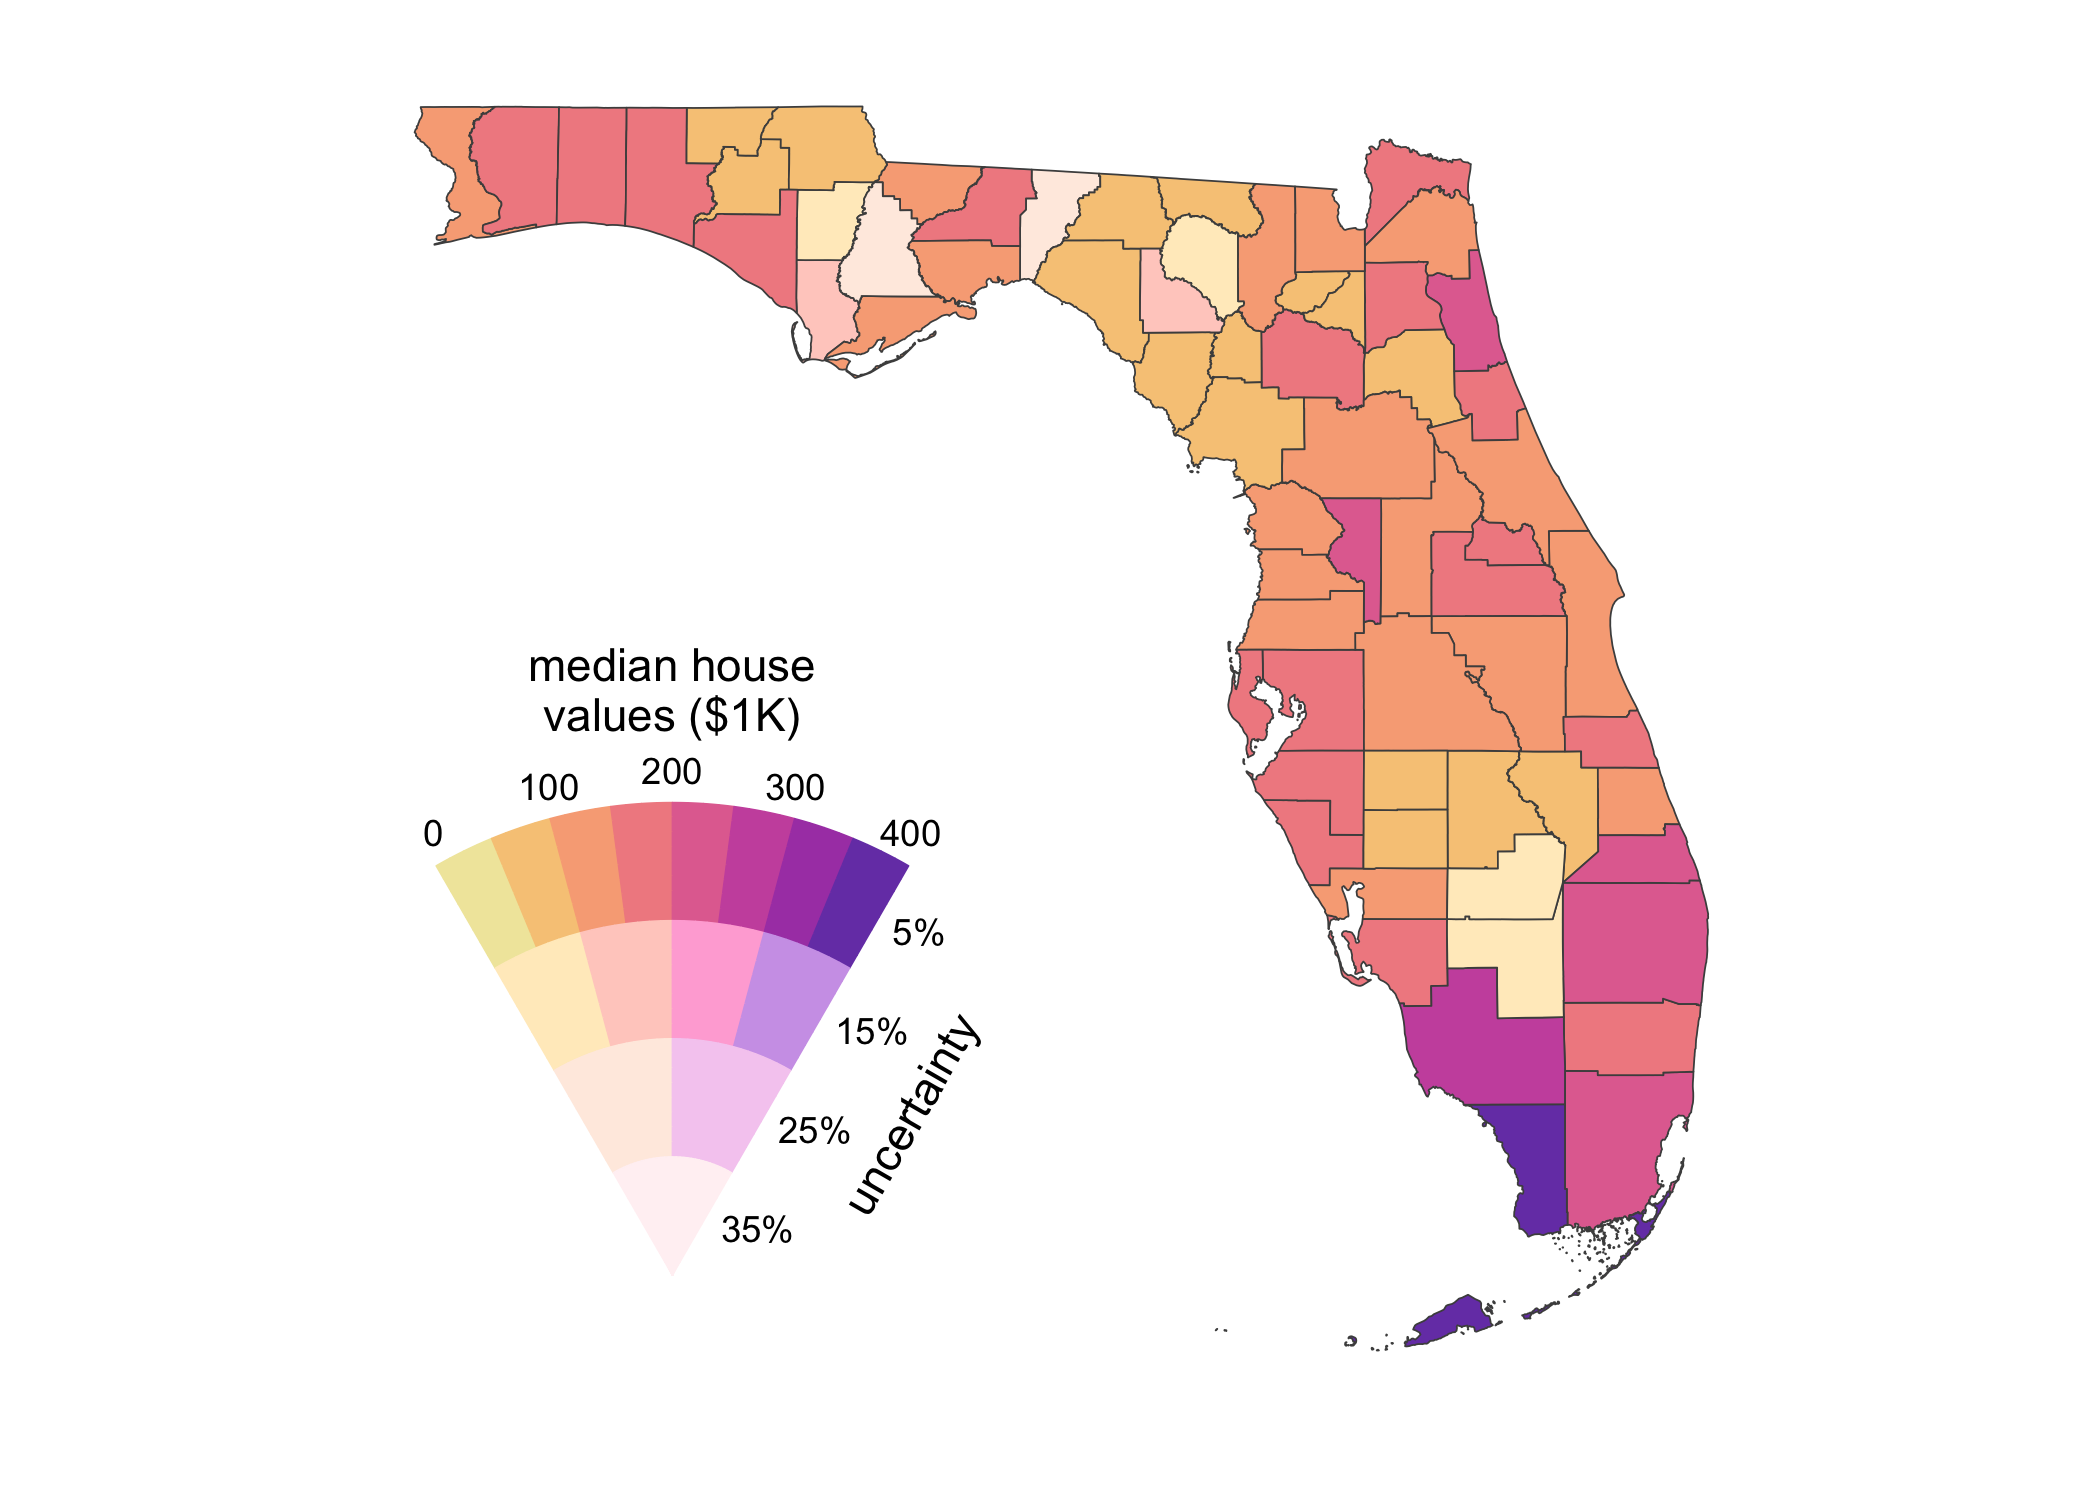
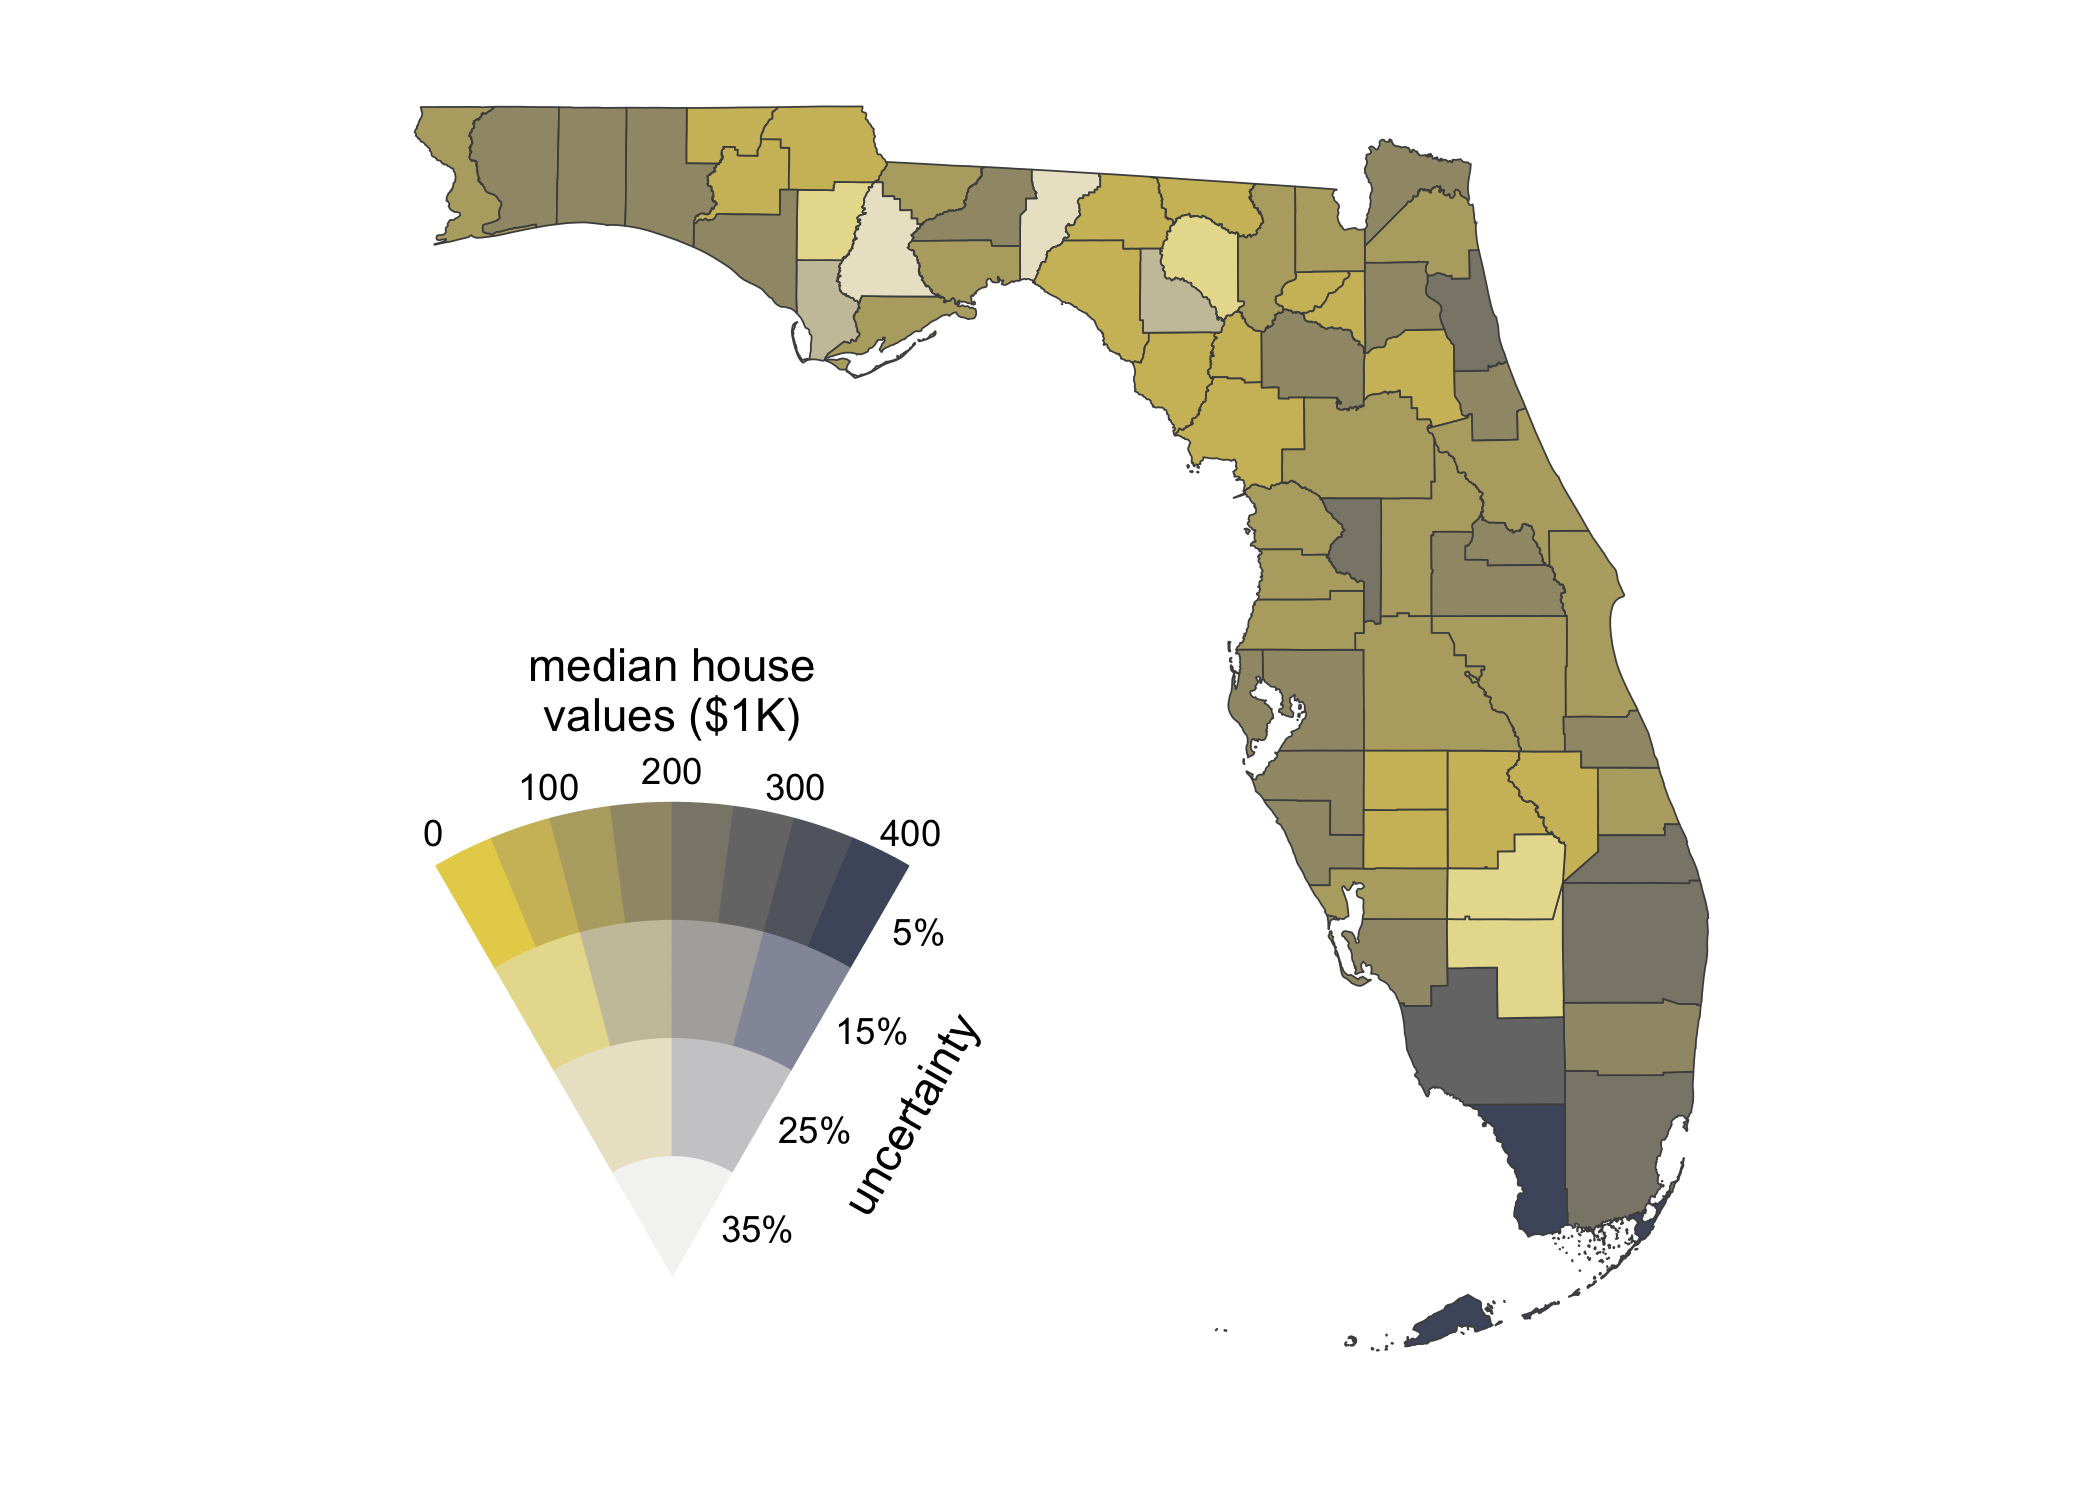
added viridis color palette

Changed region(s): [[0.1857, 0.0613, 0.8357, 0.828], [0.2167, 0.5213, 0.4333, 0.7973], [0.681, 0.8587, 0.7119, 0.8893]]

diff --git a/README.md b/README.md
@@ -33,7 +33,7 @@ ggplot(FL_house_values, aes(fill = zip(estimate/1000, moe/estimate))) +
   geom_sf(color = "gray30", size = 0.2) +
   coord_sf(xlim = c(-88, -79.8), ylim = c(24.1, 31.2), datum = NA) +
   bivariate_scale("fill",
-    pal_carto_vsup(palette = "Sunset", rev = TRUE),
+    pal_vsup_viridis(),
     name = c("median house\nvalues ($1K)", "uncertainty"),
     limits = list(c(0, 400), c(0, 0.4)),
     breaks = list(waiver(), c(0.05, 0.15, 0.25, 0.35)),
@@ -57,8 +57,8 @@ For comparison, the same plot with a univariate color scale:
 ggplot(FL_house_values, aes(fill = estimate/1000)) +
   geom_sf(color = "gray30", size = 0.2) +
   coord_sf(xlim = c(-88, -79.8), ylim = c(24.1, 31.2), datum = NA) +
-  scale_fill_continuous_carto(
-    palette = "Sunset", rev = TRUE,
+  scale_fill_viridis_c(
+    option = "E", begin = 0.3, end = 0.9, direction = -1,
     name = "median house values ($1K)",
     limits = c(0, 400),
     guide = guide_colorbar(
